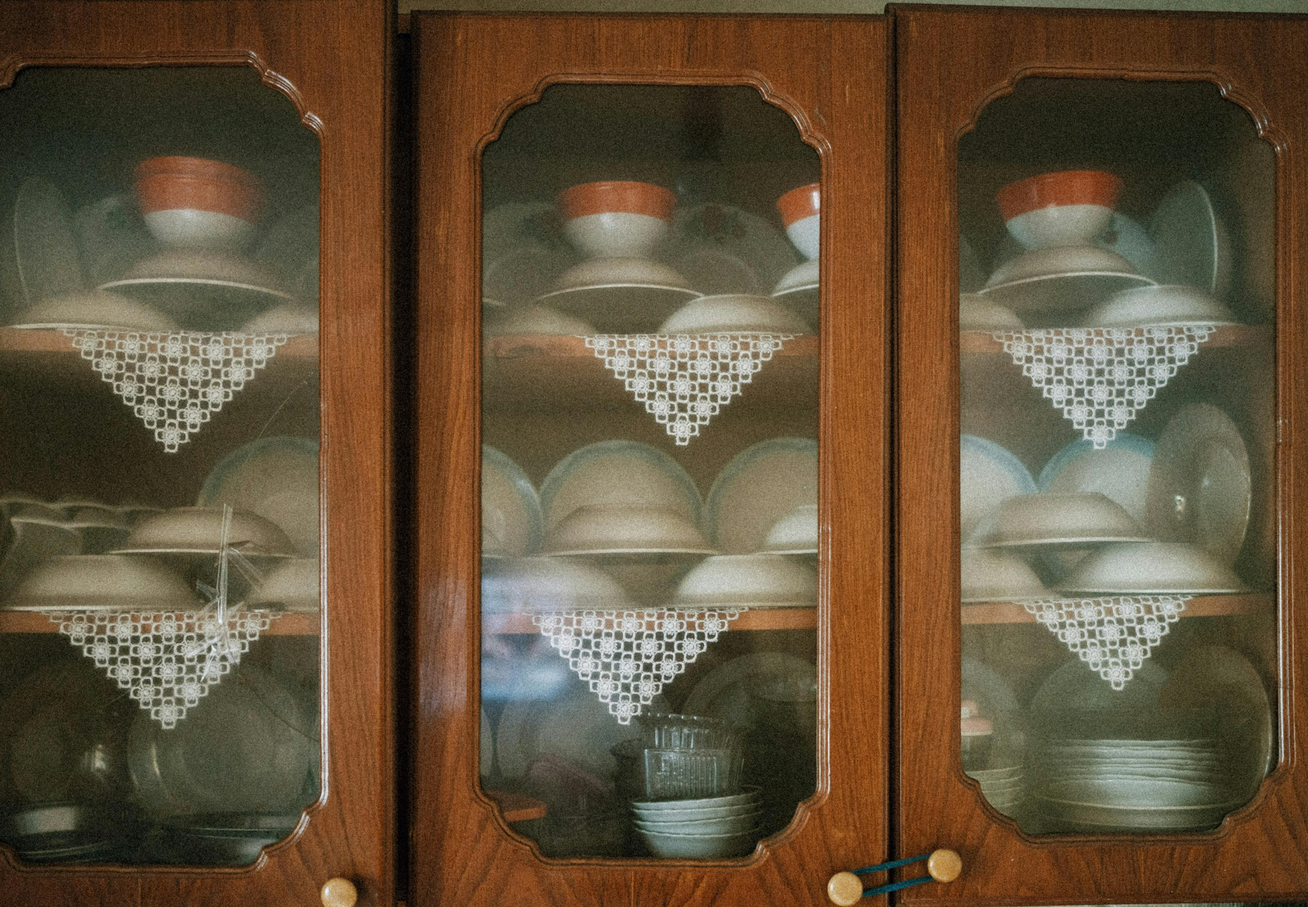
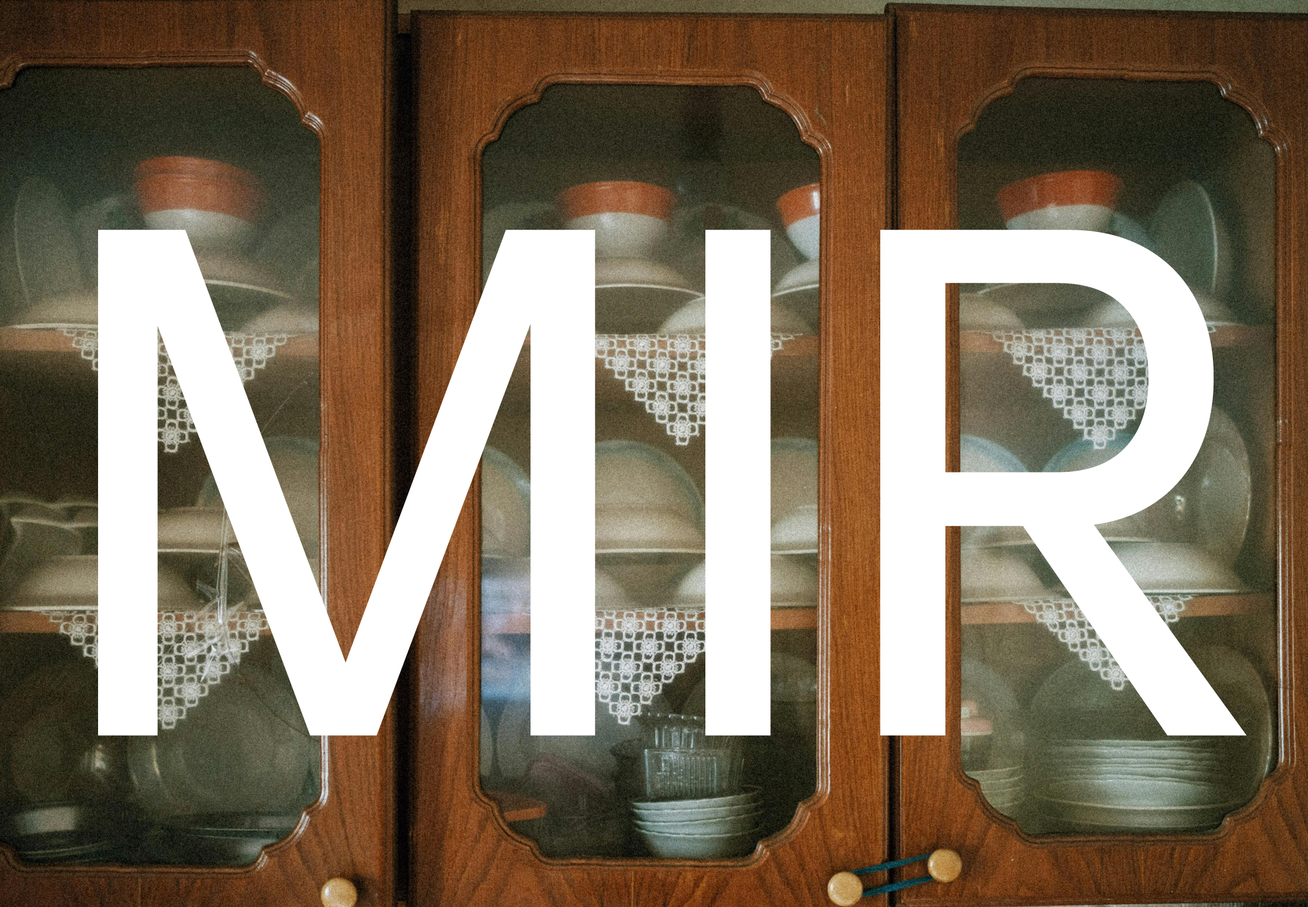
update archiv and image

Changed region(s): [[0.0623, 0.25, 0.4675, 0.8125], [0.6545, 0.25, 0.9661, 0.8125], [0.5298, 0.25, 0.5921, 0.8125]]

diff --git a/src/app/archiv/art-to-the-horizon/page.tsx b/src/app/archiv/art-to-the-horizon/page.tsx
@@ -1,0 +1,60 @@
+import React from 'react';
+import Image from 'next/image';
+import styles from '../forgotten-fantasy/ForgottenFantasy.module.css';
+
+const ForgottenFantasy: React.FC = () => {
+  return (
+    <div className={styles.container}>
+      
+      <div className={styles.imageGrid}>
+        <div className={styles.row}>
+          <Image src="/image/archiv/Art to the Horizon/SNB_Moosbrand2020_Tag1_090_ThomasDashuber.jpg" alt="Image 1" width={800} height={800} className={styles.image}/>
+          
+        </div>
+       
+      </div>
+      <h1 className={styles.title}>Art to the Horizon</h1>
+      <div className={styles.textContent}>
+        <h2 className={styles.subTitle}>Artwork Description</h2>
+        <p className={styles.paragraph}>
+        Artwork Description<br/>
+        Text<br/></p>
+        <p className={styles.paragraph}>
+        MIR Gallery, an acclaimed international art gallery celebrated for its diverse and thought-provoking collection, is excited to announce an exclusive art sharing event titled "Horizons of Art," to be held at the breathtaking Mountain Summit venue. This event is designed to unite art aficionados, collectors, and creators from across the globe in a celebration of the intersection of art and the natural world.
+        </p>
+        <p className={styles.paragraph}>
+        The day's agenda includes a thoughtfully curated exhibition of modern and contemporary artworks, hands-on art workshops, and insightful conversations with distinguished artists. Participants will have the unique chance to delve into the interplay between art and the environment, and to consider the ways in which art can influence our view of the world.
+        </p>
+
+        <p className={styles.paragraph}>
+        "Art is a powerful medium that can bridge divides and connect us to our surroundings," remarked [Gallery Director's Name], Director of MIR Gallery. "By hosting 'Horizons of Art' at the Mountain Summit, we aim to highlight the profound impact art can have when it is encountered in the context of nature."
+        </p>
+
+        <p className={styles.paragraph}>
+        MIR Gallery has also committed to donating a part of the event's proceeds to a local environmental conservation initiative, aligning with their dedication to sustainability and the preservation of the natural beauty that so often serves as a muse for artists.
+        </p>
+
+        <p className={styles.paragraph}>
+        For further details on the event and to register for attendance, visit MIR Gallery's official website at [gallery website URL].
+        </p>
+
+        <p className={styles.paragraph}>
+        About MIR Gallery:
+        Founded in [year], MIR Gallery has been at the forefront of promoting cultural dialogue and artistic innovation. With a dynamic array of exhibitions and programs, the gallery remains dedicated to expanding the reach and impact of the arts.
+
+        </p>
+
+        <p className={styles.paragraph}>
+        Contact Information:
+        For further inquiries or to request media credentials, please reach out to:
+        [Gallery Public Relations Contact]
+        [Contact Email]
+        [Contact Phone Number]
+        </p>
+        {/* 添加更多段落 */}
+      </div>
+    </div>
+  );
+};
+
+export default ForgottenFantasy;

diff --git a/src/app/archiv/woven-form/page.tsx b/src/app/archiv/woven-form/page.tsx
@@ -1,0 +1,52 @@
+import React from 'react';
+import Image from 'next/image';
+import styles from '../forgotten-fantasy/ForgottenFantasy.module.css';
+
+const ForgottenFantasy: React.FC = () => {
+  return (
+    <div className={styles.container}>
+      
+      <div className={styles.imageGrid}>
+        <div className={styles.row}>
+        <div className={styles.videoContainer}>
+            <video controls className={styles.video}>
+              <source src="/image/archiv/Woven-Forms/file.mp4" type="video/mp4" />
+              Your browser does not support the video tag.
+            </video>
+          </div>
+          
+        </div>
+        <div className={styles.row}>
+          <div className={styles.imageWideContainer}>
+            <Image src="/image/archiv/Woven-Forms/Woven-Forms_Leonie-Burkhardt_photo-credit-Daniela-Ferro_4.webp" alt="Image 3" layout="responsive" width={1600} height={800} className={styles.imageWide}/>
+          </div>
+          <div className={styles.imageContainer}>
+            <Image src="/image/archiv/Woven-Forms/5.webp" alt="Image 4" layout="responsive" width={800} height={800} className={styles.image}/>
+          </div>
+        </div>
+      </div>
+      <h1 className={styles.title}>WOVEN FORMS</h1>
+      <div className={styles.textContent}>
+        <h2 className={styles.subTitle}>Artwork Description</h2>
+        <p className={styles.paragraph}>
+        Artwork Description<br/>
+        Text<br/></p>
+        <p className={styles.paragraph}>
+        How can form be generated from a flat woven surface?
+        </p>
+
+        <p className={styles.paragraph}>
+        Woven Forms brings the craft of weaving into the third dimension. It shows the development of fully-woven sculptural textile-forms created on a Jacquard loom. These abstract objects were achieved by embedding form-giving mechanisms, such as multi-layering techniques and heat-reactive shrinking yarn. Sewing was not needed to create these woven objects. Different expressions were developed focusing on color and texture influencing the form outcomes. 
+        </p>
+
+        <p className={styles.paragraph}>
+        Materials: linen and Pemotex as weft on a monofilament warp
+        </p>
+        
+        {/* 添加更多段落 */}
+      </div>
+    </div>
+  );
+};
+
+export default ForgottenFantasy;

diff --git a/src/app/archiv/page.tsx b/src/app/archiv/page.tsx
@@ -21,7 +21,7 @@ const activities = [
     artistName: "Artist's Name 2",
     tag: "Tag 2",
     imageUrl: "/image/archiv/Art to the Horizon/LitFest22_Motivmathis_beutel_rgb-cut_q.jpg",
-    link: "/archiv/fogotten-fantasy"
+    link: "/archiv/art-to-the-horizon"
   },
   {
     content: "De Paprikabrug",
@@ -30,7 +30,7 @@ const activities = [
     artistName: "Wietske van Leeuwen",
     tag: "Tag 2",
     imageUrl: "/image/archiv/De Paprikabrug/IMG_2164-1536x1152.jpg",
-    link: "/archiv/fogotten-fantasy"
+    link: "/archiv/woven-form"
   },
   {
     content: "WOVEN FORMS",

diff --git a/src/app/archiv/forgotten-fantasy/ForgottenFantasy.module.css b/src/app/archiv/forgotten-fantasy/ForgottenFantasy.module.css
@@ -63,3 +63,17 @@
     margin-bottom: 2em; /* 调整段落的段间距 */
   }
   
+
+
+.videoContainer {
+    width: 100%;
+    display: flex;
+    justify-content: center;
+    align-items: center;
+  }
+  
+  .video {
+    width: 100%;
+     /* 你可以根据需要调整视频的最大宽度 */
+    height: auto;
+  }
